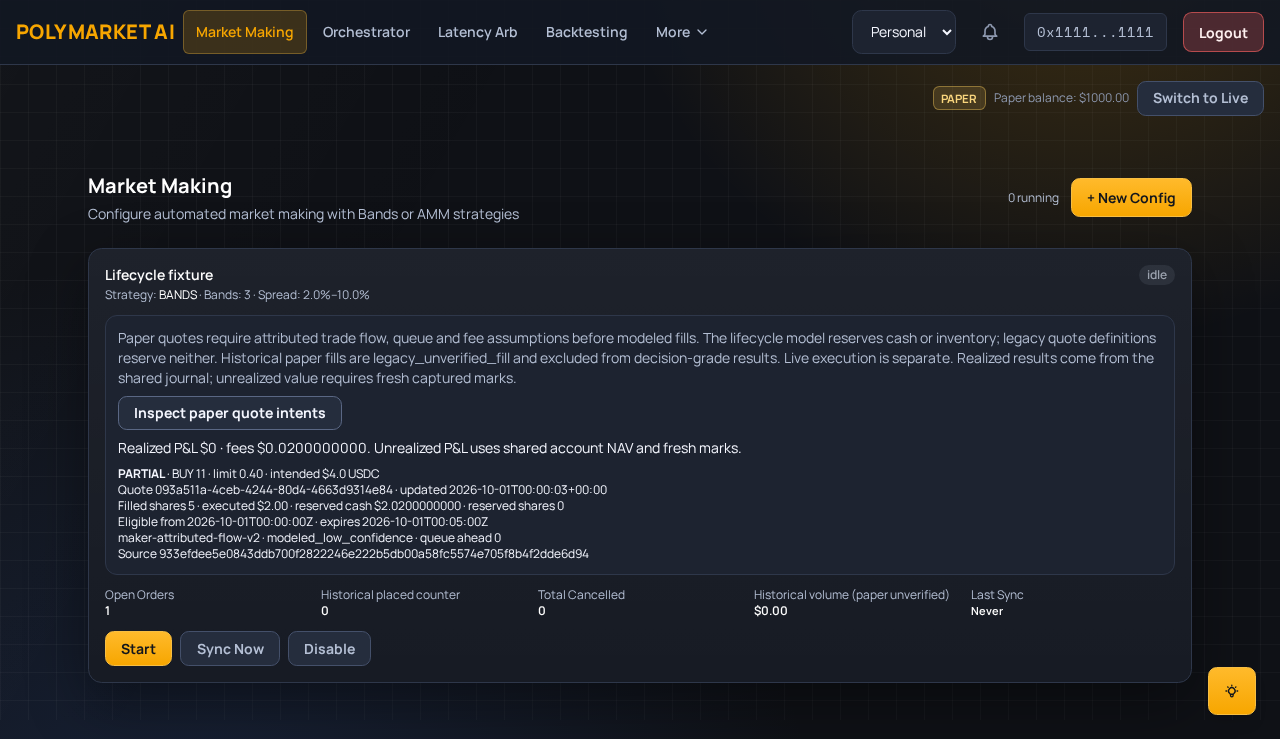
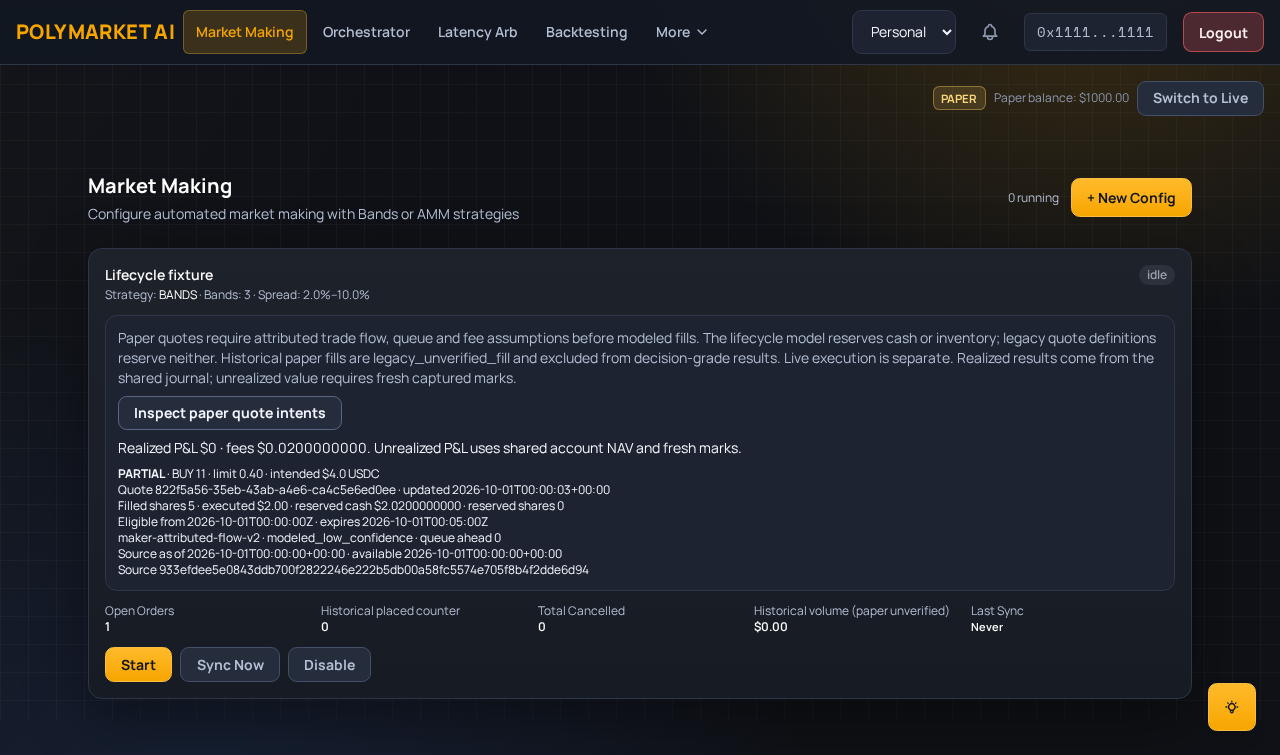
feat(maker): show pinned source and receipt clocks in lifecycle audit

diff --git a/frontend/src/components/PaperMakerIntents.tsx b/frontend/src/components/PaperMakerIntents.tsx
@@ -18,6 +18,8 @@ type Intent = {
   active_from?: string;
   expires_at?: string;
   source_snapshot_id?: string;
+  source_as_of?: string | null;
+  source_available_at?: string | null;
   policy?: string;
   confidence?: string;
   queue_ahead?: string | null;
@@ -111,6 +113,9 @@ export default function PaperMakerIntents({ configId }: { configId: number }) {
                   <br />
                   {intent.policy} · {intent.confidence} · queue ahead{" "}
                   {intent.queue_ahead ?? "unknown"}
+                  <br />
+                  Source as of {intent.source_as_of ?? "unknown"} · available{" "}
+                  {intent.source_available_at ?? "unknown"}
                   <br />
                   Source {intent.source_snapshot_id}
                 </>

diff --git a/frontend/e2e/maker/lifecycle.spec.ts b/frontend/e2e/maker/lifecycle.spec.ts
@@ -28,6 +28,7 @@ test("100 stationary syncs remain resting; attributed partial fill, retry and ca
   await expect(page.getByText("PARTIAL", { exact: true })).toBeVisible();
   await expect(page.getByText(/reserved cash \$2.02/)).toBeVisible();
   await expect(page.getByText(/modeled_low_confidence/)).toBeVisible();
+  await expect(page.getByText(/Source as of 2026-10-01/)).toBeVisible();
   await page.screenshot({ path: testInfo.outputPath("maker-lifecycle.png"), fullPage: true });
   const stopped = await request.post(`${backend}/api/market-maker/configs/1/stop`);
   expect(stopped.ok()).toBeTruthy();

diff --git a/backend/app/services/trading/paper_maker_runtime.py b/backend/app/services/trading/paper_maker_runtime.py
@@ -483,6 +483,12 @@ def report(db, config, account):
         .all()
     )
     values = []
+    receipts = {
+        receipt.id: receipt
+        for receipt in db.query(VenueObservation)
+        .filter(VenueObservation.id.in_([row.source_snapshot_id for row in rows]))
+        .all()
+    }
     with localcontext(ACCOUNTING_CONTEXT):
         for row in rows:
             order = MakerOrder.model_validate_json(row.payload_json)
@@ -494,6 +500,15 @@ def report(db, config, account):
             values.append(
                 {
                     **order.model_dump(mode="json"),
+                    "source_as_of": aware(receipts[row.source_snapshot_id].event_at).isoformat()
+                    if row.source_snapshot_id in receipts
+                    and receipts[row.source_snapshot_id].event_at
+                    else None,
+                    "source_available_at": aware(
+                        receipts[row.source_snapshot_id].received_at
+                    ).isoformat()
+                    if row.source_snapshot_id in receipts
+                    else None,
                     "created_at": aware(row.created_at).isoformat(),
                     "updated_at": aware(row.updated_at).isoformat(),
                     "notional_usdc": str(order.shares * order.limit_price),

diff --git a/backend/tests/test_paper_maker_runtime.py b/backend/tests/test_paper_maker_runtime.py
@@ -174,6 +174,7 @@ def test_config_cap_and_shadow_report_do_not_count_quotes_as_execution(maker):
     result = runtime.report(db, config, db.get(Account, 1))
     assert Decimal(result["quoted_notional_usdc"]) == 4
     assert Decimal(result["executed_notional_usdc"]) == 0
+    assert result["intents"][0]["source_as_of"] == NOW.isoformat()
     assert result["legacy_excluded_from_decision_grade"]
 
 
